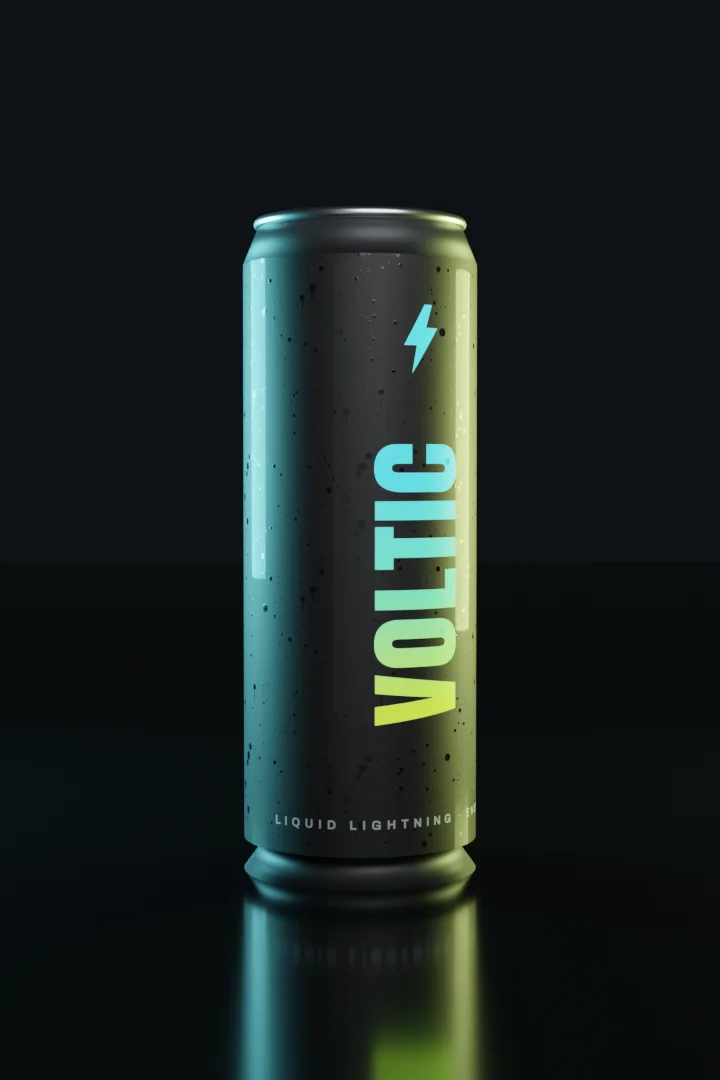
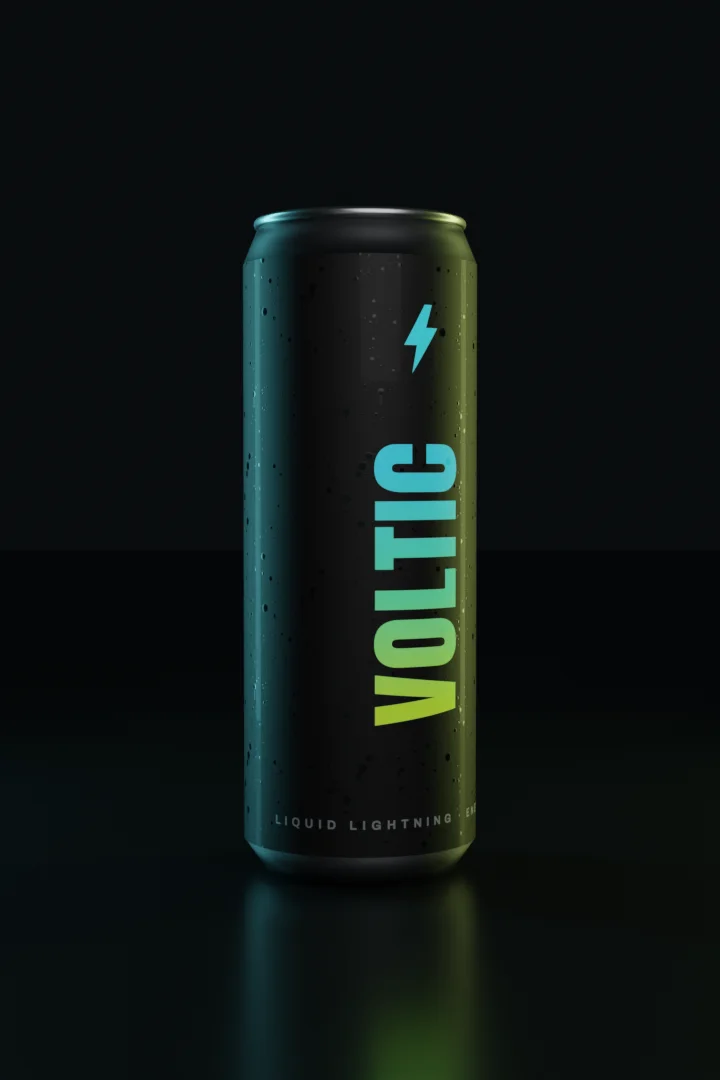
Fix the Blender render: base geometry, exposure, CG tells
Bottom was a modeling bug — the base cone tapered outward with no
underside cap, so the camera saw into an open shell. Now it tucks
inward like a real can with a closed disc.

Brightness: exposure -0.85, all lights ~45% down, emission 1.6->1.1,
and the floor is a polished surface (roughness .24, non-metallic)
instead of a near-mirror that smeared a bright blob.

Also removed two CG tells: strip softboxes replace square area lights
(no rectangular stamp on the body), coat weight .25->.08, and a
cyclorama sweep backdrop replaces the flat plane's hard horizon.

compare.html gains a side-by-side mode alongside the wipe.

Changed region(s): [[0.3056, 0.1833, 0.6722, 1.0]]

diff --git a/public/compare.html b/public/compare.html
@@ -33,6 +33,16 @@
   .tag { position: absolute; top: 10px; font: 700 10px/1 Archivo; letter-spacing: .2em;
          padding: 6px 10px; border-radius: 3px; background: rgba(6,8,10,.7); pointer-events: none; }
   .tag.l { left: 10px; color: #2fd8f5; } .tag.r { right: 10px; color: #b7e93c; }
+  .modes { display: flex; justify-content: center; gap: 10px; margin: -18px 0 30px; }
+  .mode { font: 700 11px/1 Archivo; letter-spacing: .18em; text-transform: uppercase;
+          background: none; color: #7e8d96; border: 1px solid rgba(238,244,246,.14);
+          border-radius: 3px; padding: 10px 16px; cursor: pointer; }
+  .mode.is-on { color: #06080a; background: #b7e93c; border-color: #b7e93c; }
+  body.side .wipe .top { clip-path: none; position: static; }
+  body.side .wipe { display: grid; grid-template-columns: 1fr 1fr; aspect-ratio: 4/3; cursor: default; }
+  body.side .wipe img { position: static; }
+  body.side .divider { display: none; }
+  body.side .tag.r { right: 10px; }
   .note { text-align: center; color: #7e8d96; font-size: 13.5px; margin-top: 40px; }
 </style>
 </head>
@@ -42,6 +52,10 @@
   card: <b>left of the line is the live three.js can</b> (what ships), <i>right is the Blender
   Cycles path-traced render</i>.</p>
   <div class="legend"><span><b>◂ three.js</b> · live, interactive</span><span><i>Blender ▸</i> · path-traced stills</span></div>
+  <div class="modes">
+    <button class="mode is-on" data-mode="wipe">Wipe</button>
+    <button class="mode" data-mode="side">Side by side</button>
+  </div>
 
   <div class="grid">
     <figure><div class="wipe" data-a="000"></div><figcaption>0° — FRONT</figcaption></figure>
@@ -55,6 +69,12 @@
   frame sequence like the old video approach.</p>
 
 <script>
+  for (const btn of document.querySelectorAll('.mode')) {
+    btn.addEventListener('click', () => {
+      document.querySelectorAll('.mode').forEach((b) => b.classList.toggle('is-on', b === btn));
+      document.body.classList.toggle('side', btn.dataset.mode === 'side');
+    });
+  }
   for (const w of document.querySelectorAll('.wipe')) {
     const a = w.dataset.a;
     w.innerHTML = `<img src="/compare/blender-${a}.webp" alt="Blender render at ${+a} degrees">

diff --git a/tools/blender-can.py b/tools/blender-can.py
@@ -28,6 +28,7 @@ scene.render.resolution_y = int(1080 * SCALE)
 scene.render.film_transparent = False
 scene.view_settings.view_transform = 'Filmic'
 scene.view_settings.look = 'Medium Contrast'
+scene.view_settings.exposure = -0.85
 
 # ── world: near-black with a faint top glow ──────────────────────────────
 world = bpy.data.worlds.new('w'); scene.world = world
@@ -67,9 +68,9 @@ nt.links.new(label.outputs['Color'], p.inputs['Base Color'])
 nt.links.new(rough.outputs['Color'], p.inputs['Roughness'])
 nt.links.new(bump.outputs['Normal'], p.inputs['Normal'])
 nt.links.new(glow.outputs['Color'], p.inputs['Emission Color'])
-p.inputs['Emission Strength'].default_value = 1.6
+p.inputs['Emission Strength'].default_value = 1.1
 p.inputs['Metallic'].default_value = 0.12
-p.inputs['Coat Weight'].default_value = 0.25
+p.inputs['Coat Weight'].default_value = 0.08
 
 def metal(name, color, roughness, metallic=1.0):
     m = bpy.data.materials.new(name); m.use_nodes = True
@@ -122,40 +123,62 @@ bpy.ops.mesh.primitive_cylinder_add(vertices=96, radius=R * 0.85, depth=0.012, l
 add(bpy.context.object, silver)
 bpy.ops.mesh.primitive_torus_add(major_radius=0.055, minor_radius=0.011, location=(0, -0.05, BODY_H / 2 + 0.1))
 add(bpy.context.object, silver); bpy.ops.object.shade_smooth()
-bpy.ops.mesh.primitive_cone_add(vertices=128, radius1=R, radius2=R * 0.8, depth=0.08, location=(0, 0, -BODY_H / 2 - 0.04))
+# base: wide at the body, tucking inward to the floor (radius1 = bottom)
+bpy.ops.mesh.primitive_cone_add(vertices=128, radius1=R * 0.80, radius2=R,
+                                depth=0.085, location=(0, 0, -BODY_H / 2 - 0.0425))
 add(bpy.context.object, dark); bpy.ops.object.shade_smooth()
+# closed underside disc, just above the floor so it never z-fights
+bpy.ops.mesh.primitive_circle_add(vertices=128, radius=R * 0.80, fill_type='NGON',
+                                  location=(0, 0, -BODY_H / 2 - 0.0845))
+add(bpy.context.object, dark)
 
 root = bpy.data.objects.new('root', None); scene.collection.objects.link(root)
 for o in can_parts: o.parent = root
 root.location.z = FLOOR + BODY_H / 2 + 0.08 - 0  # parts already centered at 0; lift whole can
 root.location.z = FLOOR + BODY_H / 2 + 0.08
 
-# ── glossy floor: real reflections, no mirror hack ───────────────────────
-bpy.ops.mesh.primitive_plane_add(size=30, location=(0, 0, FLOOR))
+# ── glossy sweep: floor curving up into the backdrop (infinity cove), so
+# there is no hard horizon edge anywhere in frame ────────────────────────
+bpy.ops.mesh.primitive_plane_add(size=24, location=(0, 6, FLOOR))
 floor = bpy.context.object
+bpy.ops.object.modifier_add(type='SUBSURF')
+floor.modifiers['Subdivision'].subdivision_type = 'SIMPLE'
+floor.modifiers['Subdivision'].levels = 6
+floor.modifiers['Subdivision'].render_levels = 6
+bpy.ops.object.modifier_add(type='SIMPLE_DEFORM')
+bend = floor.modifiers['SimpleDeform']
+bend.deform_method = 'BEND'
+bend.deform_axis = 'X'
+bend.angle = math.radians(-92)
+bpy.ops.object.shade_smooth()
 fm = bpy.data.materials.new('floor'); fm.use_nodes = True
 fp = fm.node_tree.nodes['Principled BSDF']
-fp.inputs['Base Color'].default_value = (0.008, 0.010, 0.012, 1)
-fp.inputs['Roughness'].default_value = 0.14
-fp.inputs['Metallic'].default_value = 0.85
+fp.inputs['Base Color'].default_value = (0.006, 0.008, 0.009, 1)
+fp.inputs['Roughness'].default_value = 0.24
+fp.inputs['Metallic'].default_value = 0.0
+fp.inputs['Specular IOR Level'].default_value = 0.55
 floor.data.materials.append(fm)
 
 # ── the studio rig as real area lights ───────────────────────────────────
 target = bpy.data.objects.new('aim', None)
 scene.collection.objects.link(target)
 target.location = (0, 0, 0)
-def area(name, loc, color, power, size):
+def area(name, loc, color, power, size, size_y=None):
     d = bpy.data.lights.new(name, 'AREA')
-    d.color = color; d.energy = power; d.size = size
+    d.color = color; d.energy = power
+    if size_y:
+        d.shape = 'RECTANGLE'; d.size = size; d.size_y = size_y
+    else:
+        d.size = size
     o = bpy.data.objects.new(name, d); scene.collection.objects.link(o)
     o.location = loc
     c = o.constraints.new('TRACK_TO')
     c.target = target; c.track_axis = 'TRACK_NEGATIVE_Z'; c.up_axis = 'UP_Y'
     return o
-area('key', (0.9, -2.6, 1.9), (1, 1, 1), 80, 2.2)
-area('cyan', (-2.6, 1.2, 0.4), (0.18, 0.85, 0.96), 300, 1.4)
-area('lime', (2.6, 1.3, 0.2), (0.72, 0.91, 0.24), 250, 1.4)
-area('fill', (0, -3.2, -0.5), (0.57, 0.64, 0.68), 12, 3)
+area('key', (0.9, -2.6, 1.9), (1, 1, 1), 55, 2.4, 3.4)
+area('cyan', (-2.6, 1.2, 0.4), (0.18, 0.85, 0.96), 150, 0.5, 4.5)
+area('lime', (2.6, 1.3, 0.2), (0.72, 0.91, 0.24), 125, 0.5, 4.5)
+area('fill', (0, -3.2, -0.5), (0.57, 0.64, 0.68), 8, 3)
 
 # ── camera: matches the three.js framing ─────────────────────────────────
 cam = bpy.data.cameras.new('cam'); cam.lens_unit = 'FOV'; cam.angle = math.radians(32)
